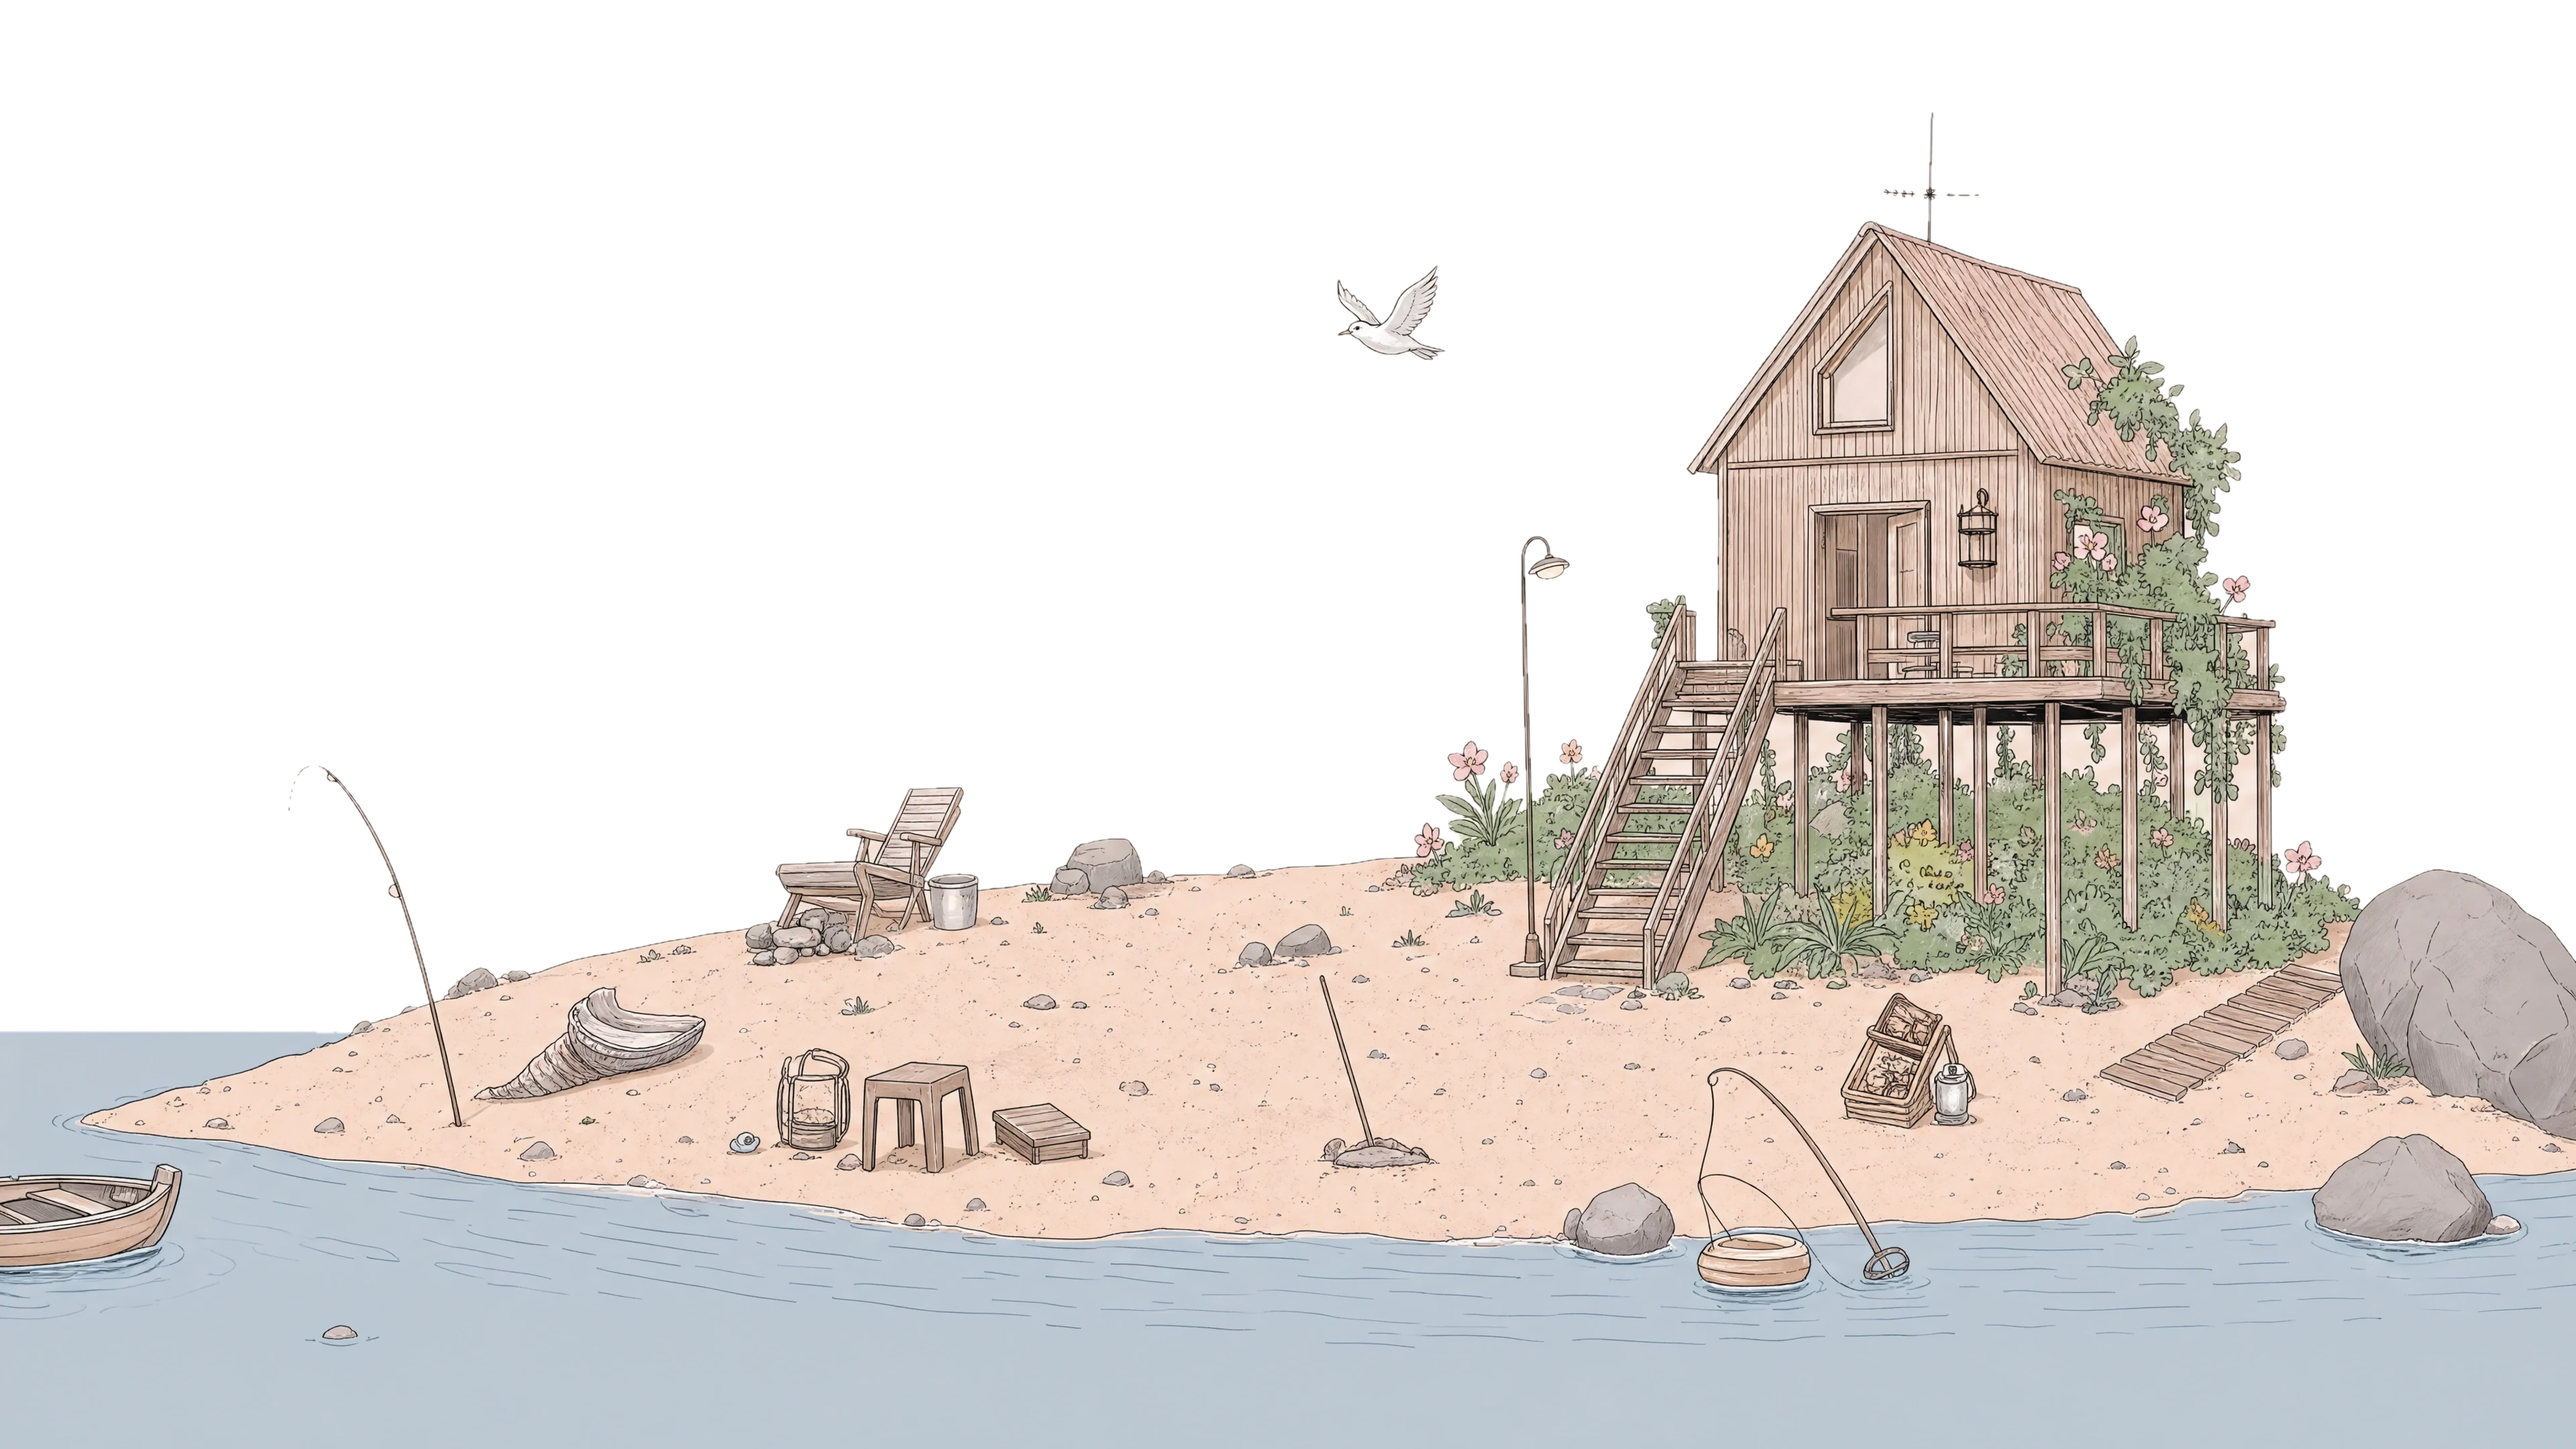
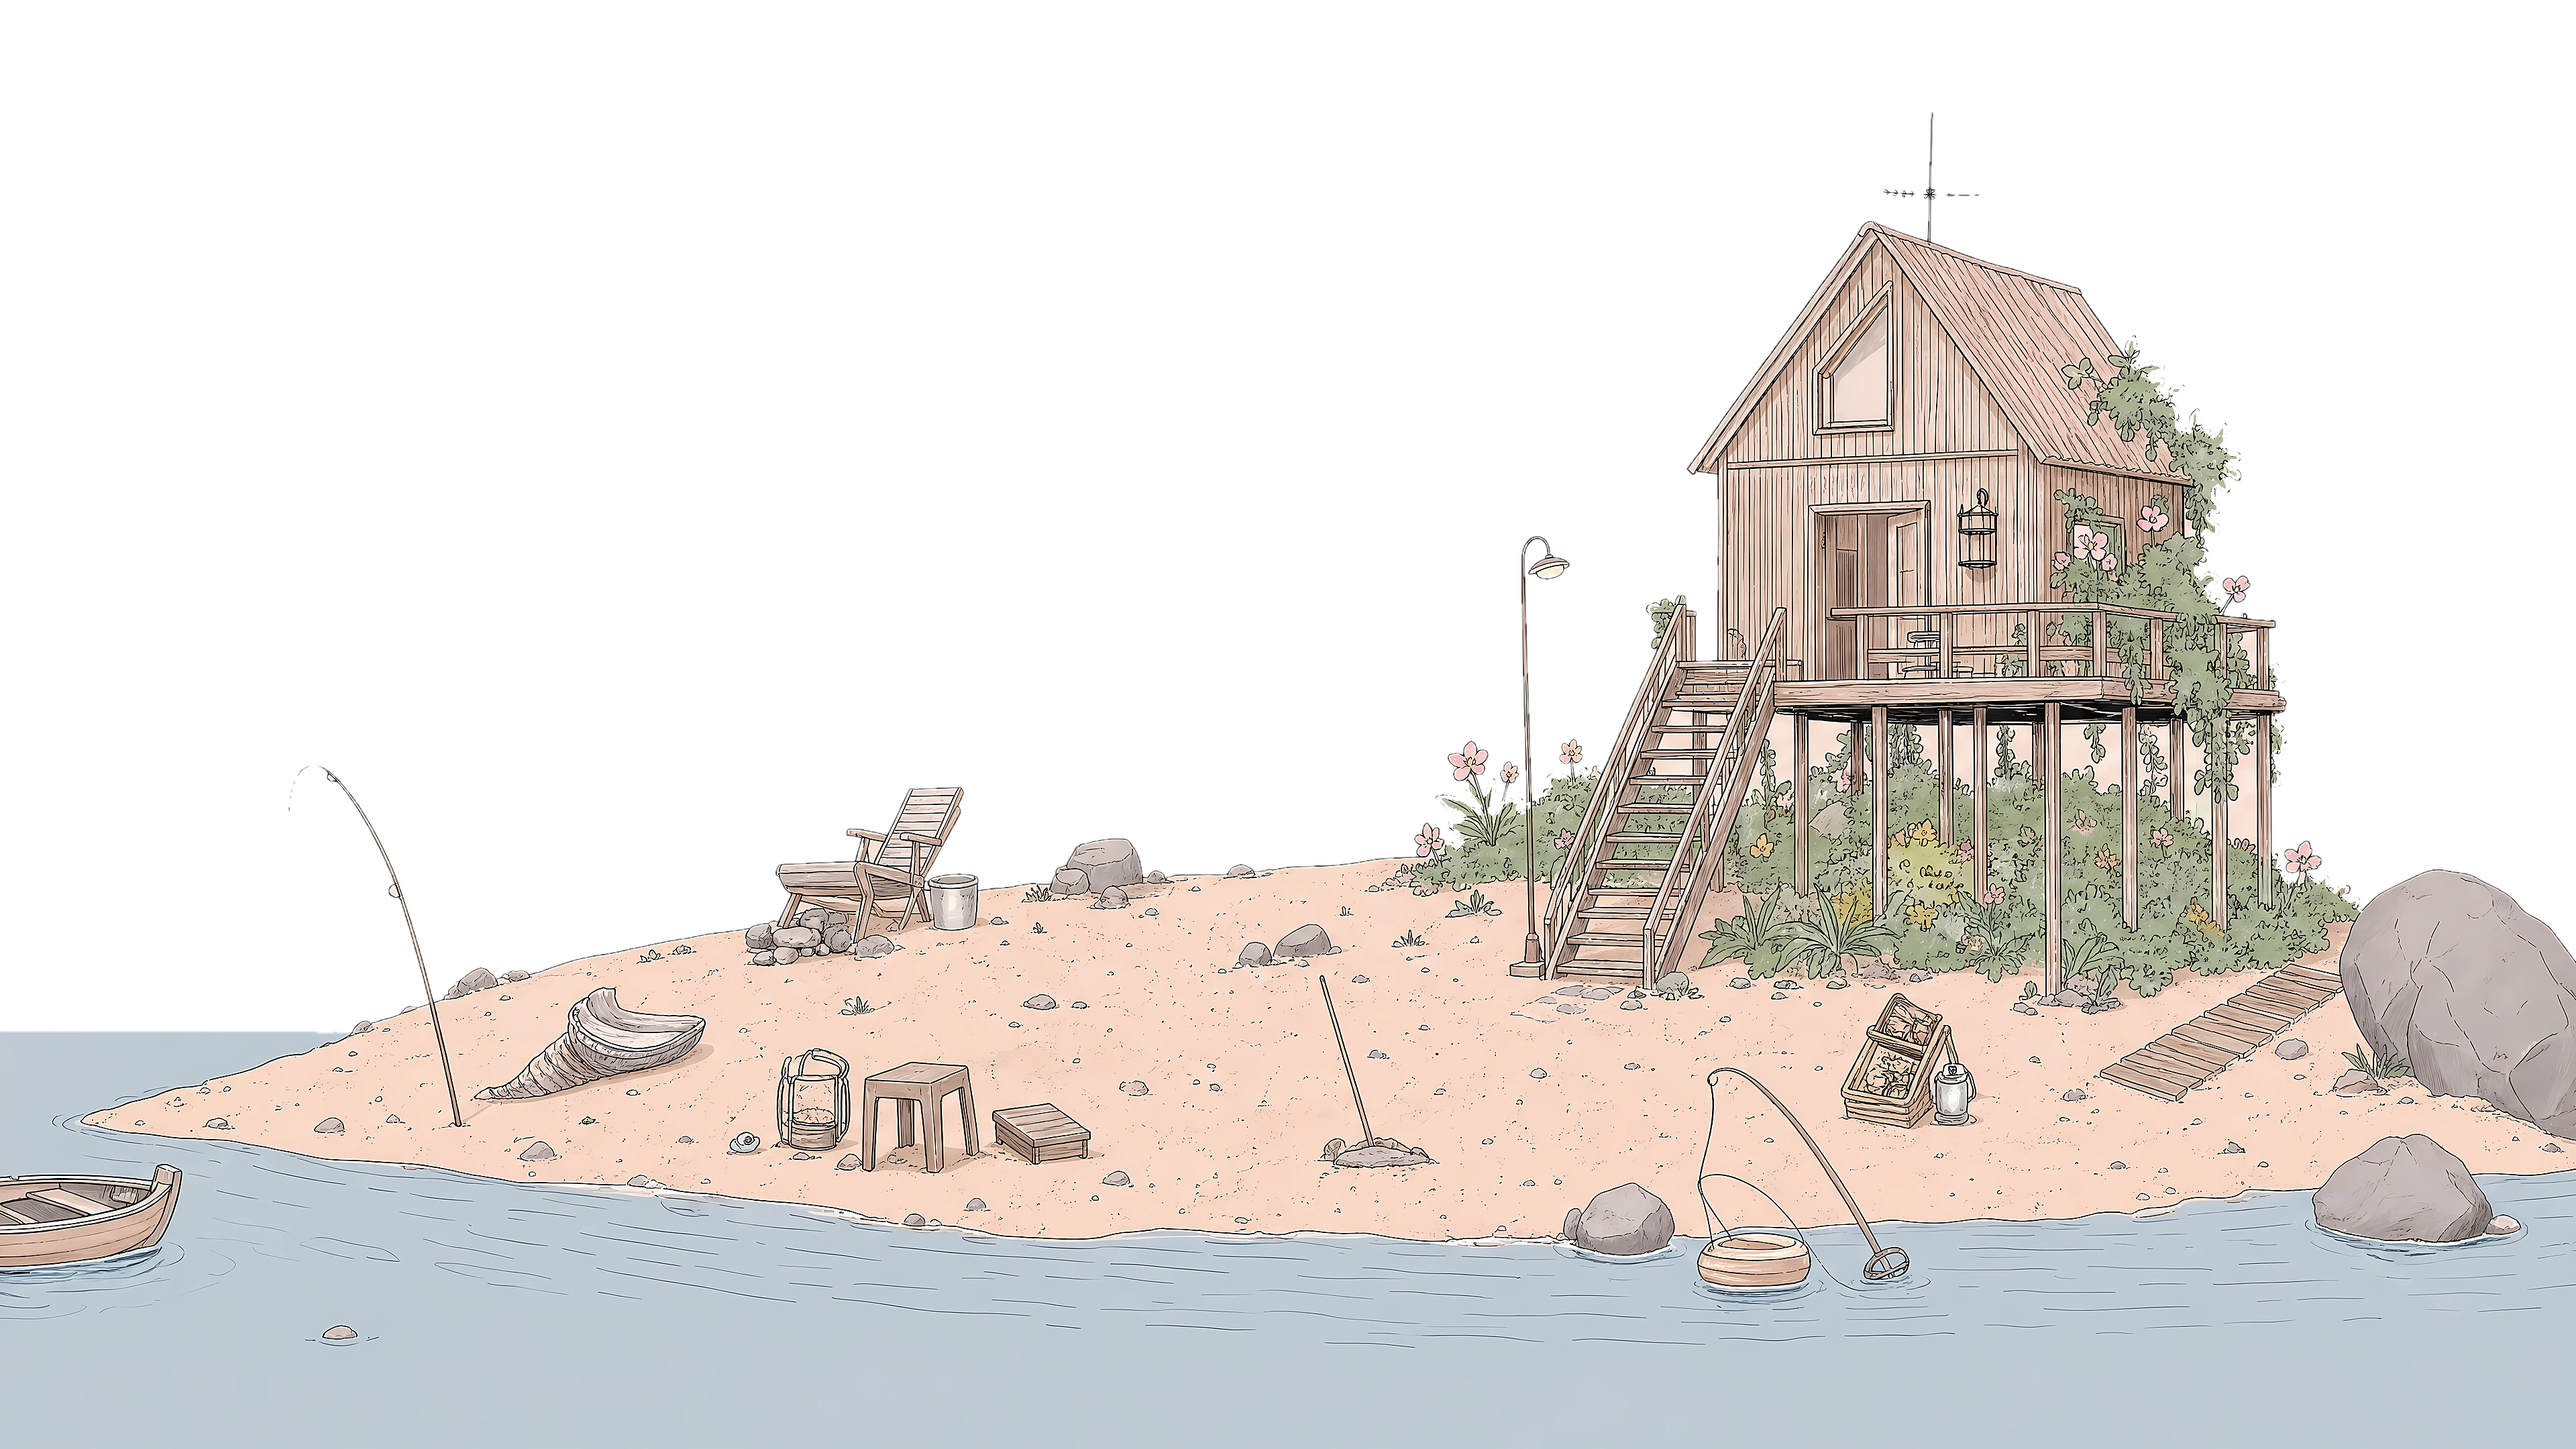
저장소 화면에도 움직임과 선명한 그림: 바다 물결·흘러가는 구름·그림 속 새 두 마리·집 아래 덤불과 덩굴 살랑

diff --git a/lib/scene-motion.ts b/lib/scene-motion.ts
@@ -9,7 +9,7 @@ export type SceneMotionConfig = {
   palms?: PalmConfig[]; // 밑동을 축으로 살랑이는 나무
   plants?: PlantsConfig[]; // 바람에 일렁이는 꽃·덤불
   seagull?: SeagullConfig; // 모래밭을 걷는 갈매기
-  birds?: { sky: SkyRange; width: number; starts: Array<{ start: [number, number]; size: number }> }; // 하늘 새
+  birds?: { sky: SkyRange; width: number; src?: string; starts: Array<{ start: [number, number]; size: number }> }; // 하늘 새
 };
 
 // 마이랜드 (/myland): 메인 랜드 섬을 가까이서 본 화면
@@ -56,6 +56,21 @@ export const COMMUNITY_MOTION: SceneMotionConfig = {
     starts: [
       { start: [78, 18], size: 1 },
       { start: [22, 26], size: 0.8 },
+    ],
+  },
+};
+
+// 저장소 (/storage): 나무집이 있는 섬. 그림 속 새가 날아다니고, 집 아래 덤불과 벽 덩굴이 살랑 (계단은 그대로)
+export const STORAGE_MOTION: SceneMotionConfig = {
+  sea: { mask: "/scenes/storage-sea-mask.png", fade: [70, 80] },
+  plants: [{ src: "/scenes/storage-plants.webp", left: 54.661, top: 23.102, width: 37.109 }],
+  birds: {
+    sky: { left: 4, right: 96, top: 8, bottom: 42 },
+    width: 4.3,
+    src: "/scenes/storage-bird.png",
+    starts: [
+      { start: [54, 21.6], size: 1 },
+      { start: [20, 14], size: 0.8 },
     ],
   },
 };

diff --git a/components/SceneMotion.tsx b/components/SceneMotion.tsx
@@ -16,7 +16,14 @@ export function SceneMotion({ config, className = "" }: { config: SceneMotionCon
       {config.sea && <SeaWaves mask={config.sea.mask} fade={config.sea.fade} />}
       {(config.palms || config.plants) && <SwayingPlants palms={config.palms ?? []} plants={config.plants ?? []} />}
       {config.birds?.starts.map((bird, index) => (
-        <SkyBird key={index} start={bird.start} size={bird.size} sky={config.birds!.sky} width={config.birds!.width} />
+        <SkyBird
+          key={index}
+          start={bird.start}
+          size={bird.size}
+          sky={config.birds!.sky}
+          width={config.birds!.width}
+          src={config.birds!.src}
+        />
       ))}
       {config.seagull && <IslandSeagull config={config.seagull} />}
     </div>

diff --git a/components/SkyBird.tsx b/components/SkyBird.tsx
@@ -20,11 +20,13 @@ export function SkyBird({
   size = 1,
   sky = MAINLAND_SKY,
   width = 2.84,
+  src = "/scenes/sky-bird.png",
 }: {
   start?: [number, number];
   size?: number;
   sky?: SkyRange;
   width?: number;
+  src?: string; // 오른쪽을 보는 새 그림
 }) {
   const SKY = sky;
   const bodyRef = useRef<HTMLDivElement>(null);
@@ -108,7 +110,7 @@ export function SkyBird({
       {/* eslint-disable-next-line @next/next/no-img-element */}
       <img
         ref={poseRef}
-        src="/scenes/sky-bird.png"
+        src={src}
         alt=""
         className="block w-full -translate-x-1/2 -translate-y-1/2"
         style={{ transform: start[0] > 50 ? "scaleX(-1)" : undefined }}

diff --git a/app/storage/page.tsx b/app/storage/page.tsx
@@ -1,5 +1,7 @@
 "use client";
 
+import { SceneMotion } from "@/components/SceneMotion";
+import { STORAGE_MOTION } from "@/lib/scene-motion";
 import { MoodSkyBackground } from "@/components/MoodSkyBackground";
 import {
   DEFAULT_NOTIFICATIONS,
@@ -31,7 +33,8 @@ export default function StoragePage() {
         className="relative h-screen w-screen cursor-pointer overflow-hidden"
         onClick={() => router.push("/storageinside")}
       >
-        <MoodSkyBackground scene="storagefar" />
+        <MoodSkyBackground scene="storagefar" clouds />
+        <SceneMotion config={STORAGE_MOTION} />
         <h1 className="sr-only">저장소</h1>
       </div>
 
